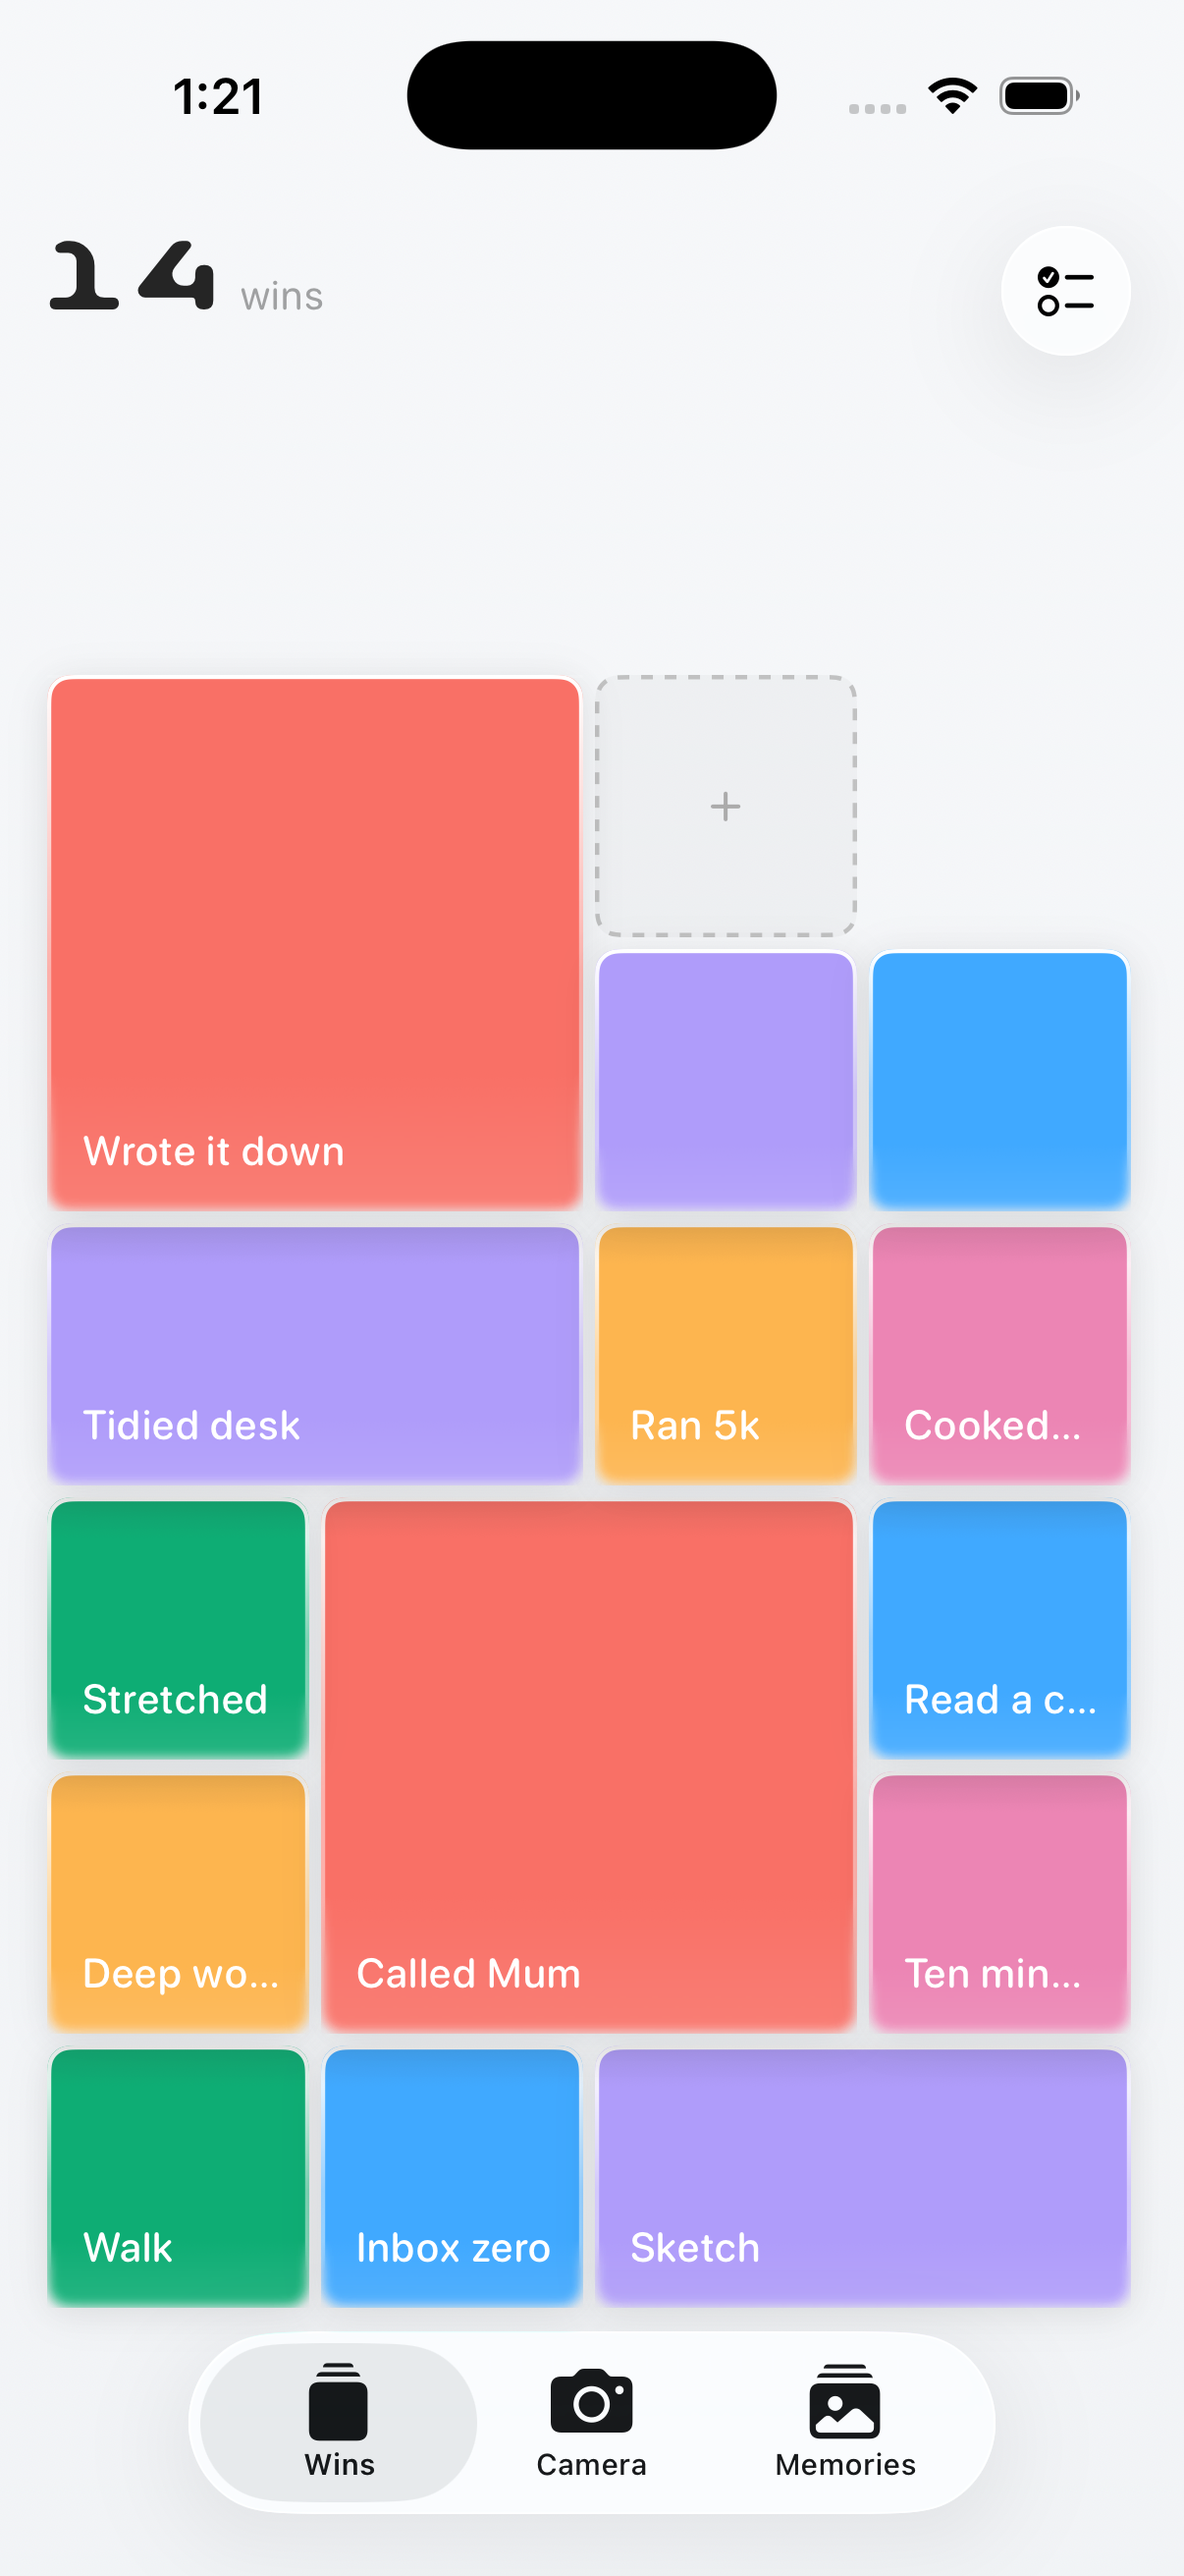
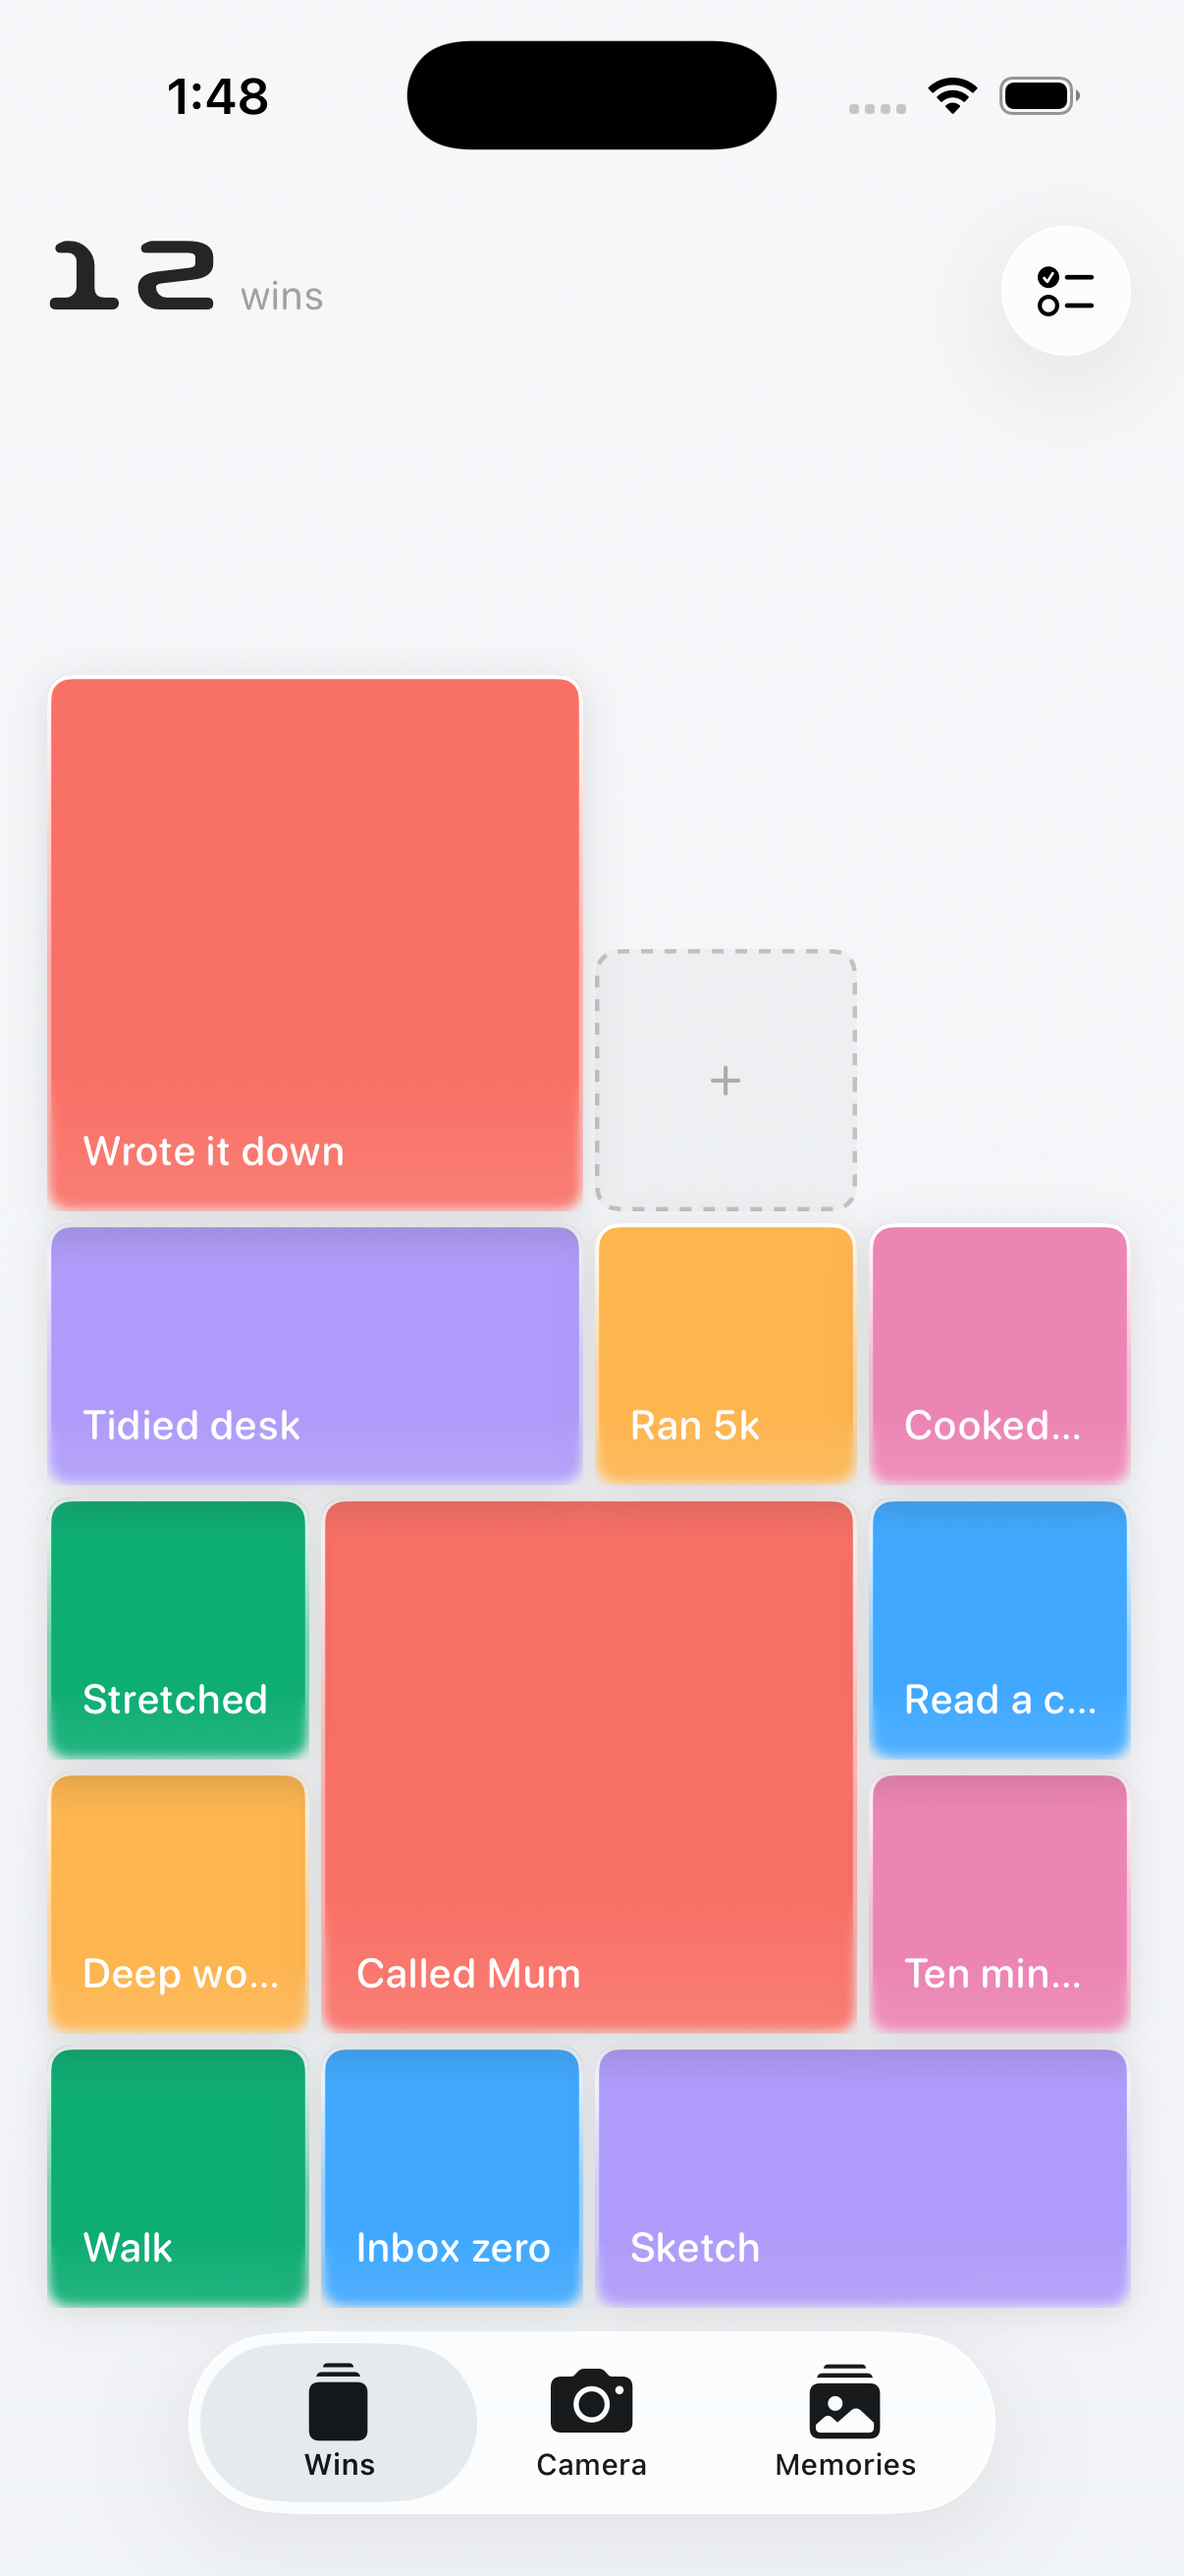
Revert: the tower header's word goes back to type
Drawn on the numeral's own body it was one face at one size, baselines
agreeing to 0.00pt — and matched in size it stopped being a caption and became
half of a two-word title. The owner liked the smaller one, and the reasoning
holds up: the count is the fact and the word is what it counts, so the word
being quieter AND smaller is the header saying which of the two to read.

Back to SF Pro Rounded at a subheadline size, 0.35 grey. Measured after:
numeral ink top 81.7pt, baseline 104.7; the word's baseline 105.0, which is
the same line to a subpixel.

The `WinsWord` view and its two imagesets are deleted rather than left unused
— an asset that ships in the bundle and is drawn by nothing is not a spare, it
is weight. The drawings themselves survive in `brand/wins-owner.svg` and
`brand/win-owner.svg`, and `tools/make_win_singular.py` still cuts the
singular out of the plural, so bringing it back is a re-add rather than a
redraw.

Changed region(s): [[0.4909, 0.3707, 0.9818, 0.4943], [0.1534, 0.0309, 0.2454, 0.0618], [0.1227, 0.0927, 0.1841, 0.1236]]

diff --git a/Strata/Views/StrataMark.swift b/Strata/Views/StrataMark.swift
@@ -172,45 +172,6 @@ struct MemoriesTitle: View {
     }
 }
 
-/// "win" / "wins", the word under the tower's count, in the same hand.
-///
-/// It was SF Pro Rounded at a subheadline size, which made the header two
-/// faces at two sizes to say one thing. It is now the same drawing the count
-/// is, on the same 28-unit body, so the pair reads as one object.
-///
-/// **The singular is cut from the plural**, by `tools/make_win_singular.py`,
-/// which drops the rightmost of the five contours. Asking for a second export
-/// would have risked two drawings that only nearly match; this way they are
-/// literally the same letterforms, and the sidebearing is the one the export
-/// already had.
-///
-/// `size` is the drawing's whole body, so handing it
-/// `Typography.screenTitleCap` puts the `i`'s dot on the numeral's cap line
-/// and its x-height at 21.02/28 of that — which is what lowercase beside
-/// figures is supposed to do, rather than a size anybody picked.
-struct WinsWord: View {
-    let count: Int
-    var size: CGFloat = Typography.screenTitleCap
-    var color: Color = .primary.opacity(0.35)
-
-    /// From the drawings' viewBoxes: 132 x 28 and 98.87 x 28.
-    static let pluralAspect: CGFloat = 132.0 / 28.0
-    static let singularAspect: CGFloat = 98.87 / 28.0
-
-    private var isPlural: Bool { count != 1 }
-
-    var body: some View {
-        DrawnLettering(asset: isPlural ? "WinsWord" : "WinWord",
-                       aspect: isPlural ? Self.pluralAspect : Self.singularAspect,
-                       size: size, color: color,
-                       label: isPlural ? "wins" : "win",
-                       relativeTo: .largeTitle)
-            // The ink runs to the bottom of the body, so the drawing's bottom
-            // IS its baseline — which lets it sit on the numeral's real one.
-            .alignmentGuide(.firstTextBaseline) { $0[.bottom] }
-    }
-}
-
 // MARK: - The mark
 
 /// The app's mark: the owner's `S`, knocked out of one of the app's blocks.

diff --git a/Strata/Views/MainAppView.swift b/Strata/Views/MainAppView.swift
@@ -681,10 +681,18 @@ struct MainAppView: View {
                 // a box aligned to the grid still LOOKS indented next to a
                 // block, whose colour goes right to its edge.
                 .padding(.leading, -GridConstants.tallyOpticalInset)
-            // The word, drawn, on the same body as the numeral — see
-            // `WinsWord`. It was SF Pro Rounded at a subheadline size, which
-            // made a two-word header into two faces at two sizes.
-            WinsWord(count: towerVM.placedBlocks.count)
+            // SF Pro Rounded, at a subheadline size.
+            //
+            // It was drawn for one build, on the numeral's own 28-unit body,
+            // so the pair was one face at one size. The owner's call is this
+            // one, and the reasoning holds up: the count is the fact and the
+            // word is a caption for it, so the word being quieter AND smaller
+            // is the header saying which of the two you are meant to read.
+            // Matched in size it stopped being a caption and became half of a
+            // two-word title.
+            Text(towerVM.placedBlocks.count == 1 ? "win" : "wins")
+                .font(Typography.screenSubtitle)
+                .foregroundStyle(.primary.opacity(0.35))
             Spacer(minLength: 0)
             // The plan, where sharing was, which was where the range picker
             // was before that.

diff --git a/CLAUDE.md b/CLAUDE.md
@@ -250,14 +250,15 @@ method, every bug and what made it invisible, and the before/after numbers.
 - **The wordmark is 6.5:1**, against Jaro's 2.4:1. Sizes tuned for Jaro will
   overflow: the camera's 61pt ran the word 396pt across a 370pt page and
   clipped the final `a`. See the camera entry above for where it landed.
-- **The tower header's word is drawn too**, on the same 28-unit body as the
-  digits (`WinsWord`). Handing it `Typography.screenTitleCap` puts the `i`'s
-  dot on the numeral's cap line and its x-height at 21.02/28 of that, which is
-  what lowercase beside figures does — measured, both sit on one baseline to
-  0.00pt. **The singular is CUT from the plural** by
-  `tools/make_win_singular.py`, which drops the rightmost of the five
-  contours, so "win" and "wins" are literally the same letterforms rather than
-  two exports that nearly match.
+- **The tower header's word stays SF Pro Rounded at a subheadline size.** It
+  was drawn on the numeral's own 28-unit body for one build — one face, one
+  size, baselines agreeing to 0.00pt — and the owner's call is the smaller
+  type. The reasoning holds: the count is the fact and the word is a caption
+  for it, so the word being quieter AND smaller is the header saying which of
+  the two you are meant to read. Matched in size it stopped being a caption
+  and became half of a two-word title. The drawings survive in
+  `brand/wins-owner.svg` and `brand/win-owner.svg`; the imagesets and the
+  `WinsWord` view are gone.
 - **The mark is a BLOCK with the letter on it**, not a bare letter.
   `StrataMark` draws a real `BlockSurface` in mindfulness pink with the `S` in
   white over it, and the app icon is the same idea inverted — the S itself is
